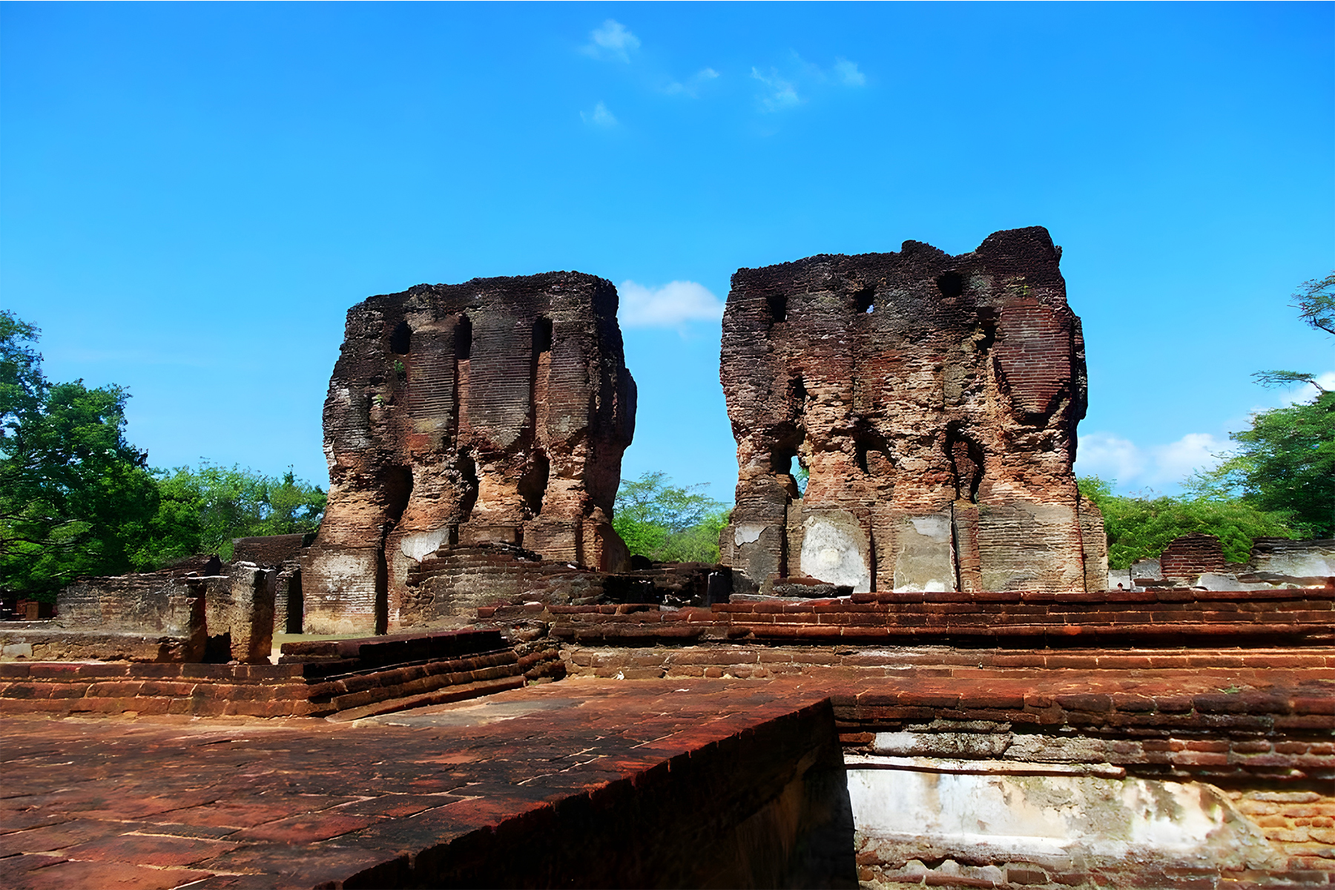
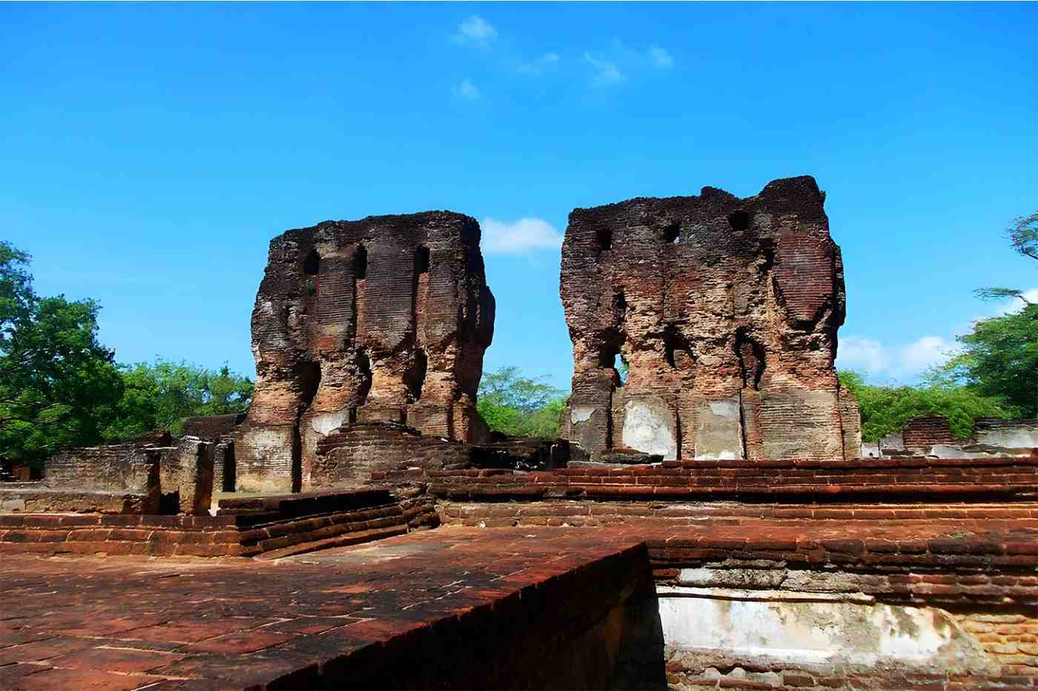
reduce image sizes

diff --git a/components/Home/RoomCarousel/RoomCard.tsx b/components/Home/RoomCarousel/RoomCard.tsx
@@ -91,7 +91,7 @@ const RoomDataSection: React.FC<{ room: BackendRoom }> = ({ room }) => {
   // ✅ COMPLETE ICON MAPPING
   // Checks every possible backend key and assigns an icon
   const allFeatures = [
-    { key: 'ac', icon: <FaSnowflake />, label: "AC" },
+    { key: 'ac', icon: <FaSnowflake />, label: "A/C" },
     { key: 'wifi', icon: <FaWifi />, label: "WiFi" },
     { key: 'tv', icon: <FaTv />, label: "TV" },
     { key: 'fan', icon: <FaFan />, label: "Fan" },
